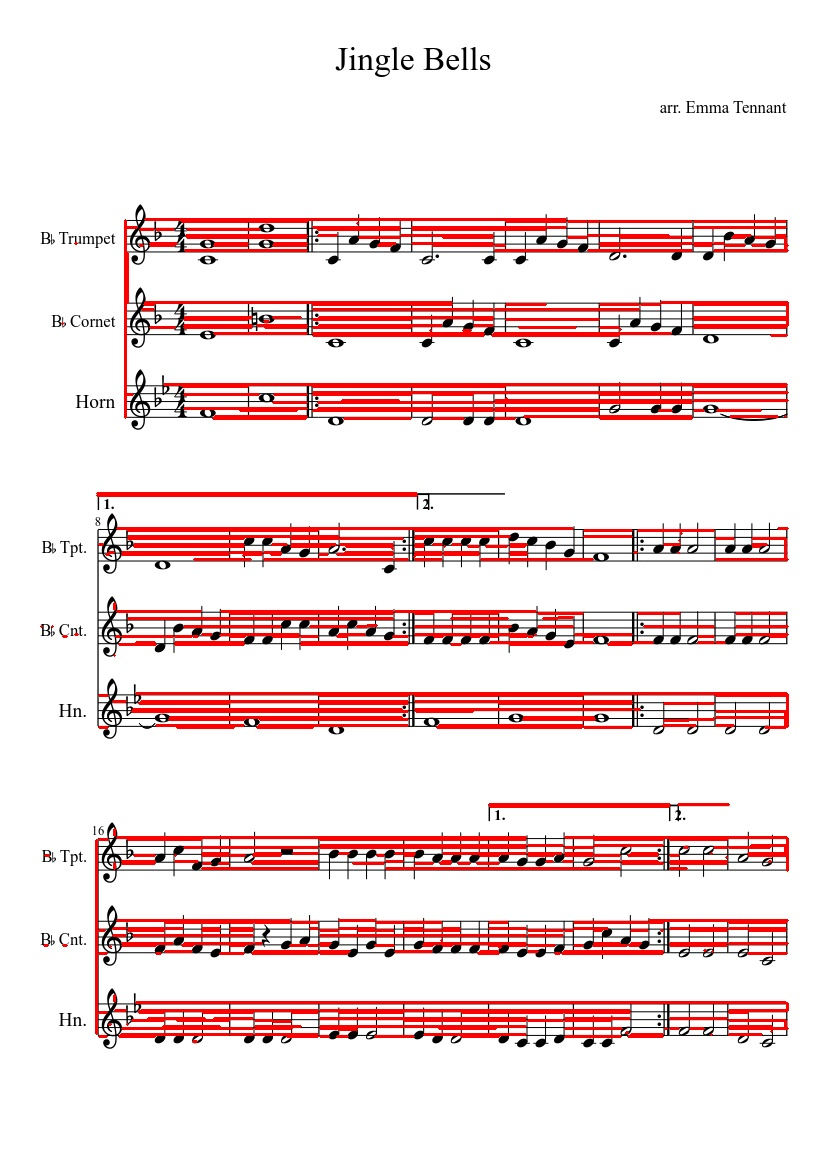
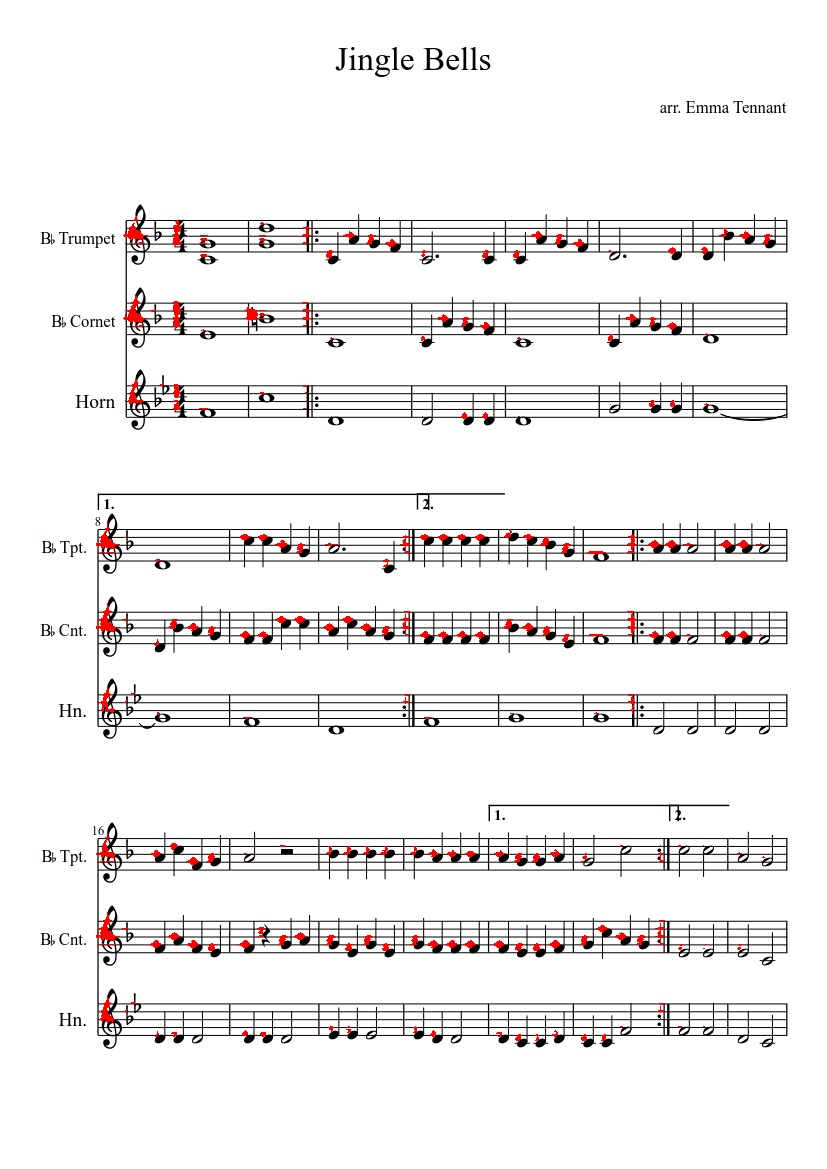
Adds implimentation for note detection using sliding window.

diff --git a/midify.py b/midify.py
@@ -1,25 +1,100 @@
 import cv2
 import numpy as np
 
+WHITE = 200
+BLACK = 100
+
 
 if __name__ == '__main__':
 
     fname = 'data/images/score_3.png'
     img = cv2.imread(fname)
+    img_c = img.copy()
     img_size = img.shape[:2]
+    print(img_size)
 
-    img_gray = cv2.cvtColor(img, cv2.COLOR_BGR2GRAY)
-    thresh = 150
-    img_bw = cv2.threshold(img_gray, thresh, 255, cv2.THRESH_BINARY)[1]
+    y = 0
+    while y < img_size[0] - 10:
+        print(y)
+        x = 0
+        white = True
+        while x < img_size[1] - 10:
+            colors = 0
+            for y2 in range(y, y + 10):
+                for x2 in range(x, x + 10):
+                    pixel_color = img[y2, x2]
+                    if pixel_color[0] < 200:
+                        colors += 0
+                    else:
+                        colors += 255
+            colors /= 100
+            if colors >= WHITE:
+                x += 10
+            elif colors <= BLACK:
+                img_c[y, x] = [0, 0, 255]
+                white = False
+                x += 1
+            else:
+                white = False
+                x += 1
+        if white:
+            y += 10
+        else:
+            y += 1
 
-    edges = cv2.Canny(img_bw, 50, 150, apertureSize=3)
-    p_lines = cv2.HoughLinesP(edges, 1, np.pi / 180, 150, 100, 0, 0)
-    # circles = cv2.HoughCircles(img_bw, cv2.HOUGH_GRADIENT, 1, 20, param1=100, param2=100, minRadius=0, maxRadius=0)
-    # circles = np.uint16(np.around(circles))
+    cv2.imwrite('data/images/score_3_lines.jpg', img_c)
 
-    for line in p_lines:
-        for x1, y1, x2, y2 in line:
-            cv2.line(img, (x1, y1), (x2, y2), (0, 0, 255), 2)
+    # x = 0
+    # while x < img_size[1] - 10:
+    #     y = 0
+    #     print(x)
+    #     white = True
+    #     while y < img_size[0] - 10:
+    #         colors = [0, 0, 0]
+    #         for x2 in range(x, x + 10):
+    #             for y2 in range(y, y + 10):
+    #                 pixel_color = img[y2, x2]
+    #                 colors[0] += pixel_color[0]
+    #                 colors[1] += pixel_color[1]
+    #                 colors[2] += pixel_color[2]
+    #         for c in range(len(colors)):
+    #             colors[c] /= 100
+    #         if colors[0] >= 200 and colors[1] >= 200 and colors[2] >= 200:
+    #             y += 10
+    #         else:
+    #             white = False
+    #             y += 1
+    #     if white:
+    #         x += 10
+    #     else:
+    #         x += 1
+
+    # for x in range(img_size[1] - 10):
+        # for y in range(img_size[0] - 10):
+        #     print(y, x)
+        #     colors = [0, 0, 0]
+        #     for x2 in range(x, x + 11):
+        #         for y2 in range(y, y + 10):
+        #             pixel_color = img[y2, x2]
+        #             colors[0] += pixel_color[0]
+        #             colors[1] += pixel_color[1]
+        #             colors[2] += pixel_color[2]
+        #     for c in range(len(colors)):
+        #         colors[c] /= 110
+
+
+                # img_gray = cv2.cvtColor(img, cv2.COLOR_BGR2GRAY)
+    # thresh = 150
+    # img_bw = cv2.threshold(img_gray, thresh, 255, cv2.THRESH_BINARY)[1]
+    #
+    # # edges = cv2.Canny(img_bw, 50, 150, apertureSize=3)
+    # # p_lines = cv2.HoughLinesP(edges, 1, np.pi / 180, 150, 100, 0, 0)
+    # # for line in p_lines:
+    # #     for x1, y1, x2, y2 in line:
+    # #         cv2.line(img, (x1, y1), (x2, y2), (0, 0, 255), 2)
+    #
+    # circles = cv2.HoughCircles(img_gray, cv2.HOUGH_GRADIENT, 1, 5, param1=250, param2=20, minRadius=1, maxRadius=10)
+    # print(circles)
     # circles = np.uint16(np.around(circles))
     # print(circles)
     # for i in circles[0, :]:
@@ -27,11 +102,5 @@ if __name__ == '__main__':
     #     cv2.circle(img, (i[0], i[1]), i[2], (0, 255, 0), 2)
     #     # draw the center of the circle
     #     cv2.circle(img, (i[0], i[1]), 2, (0, 0, 255), 3)
-
-    # lines = cv2.HoughLines(edges, 1, np.pi / 180, 150, None, 0, 0)
-    # for line in p_lines:
-    #     for x1, y1, x2, y2 in line:
-    #         cv2.line(img, (x1, y1), (x2, y2), (0, 255, 0), 2)
-
-    cv2.imwrite('data/images/score_3_bw.jpg', img_bw)
-    cv2.imwrite('data/images/score_3_lines.jpg', img)
+    #
+    # cv2.imwrite('data/images/score_3_lines.jpg', img)
